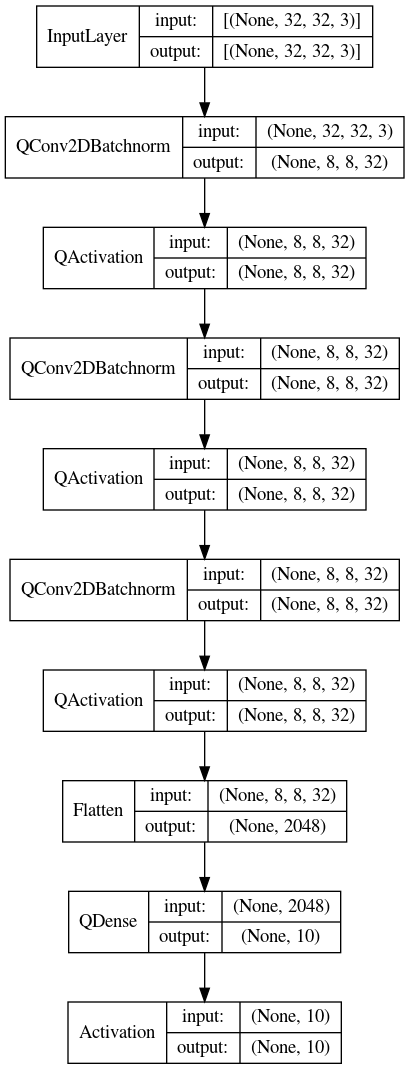
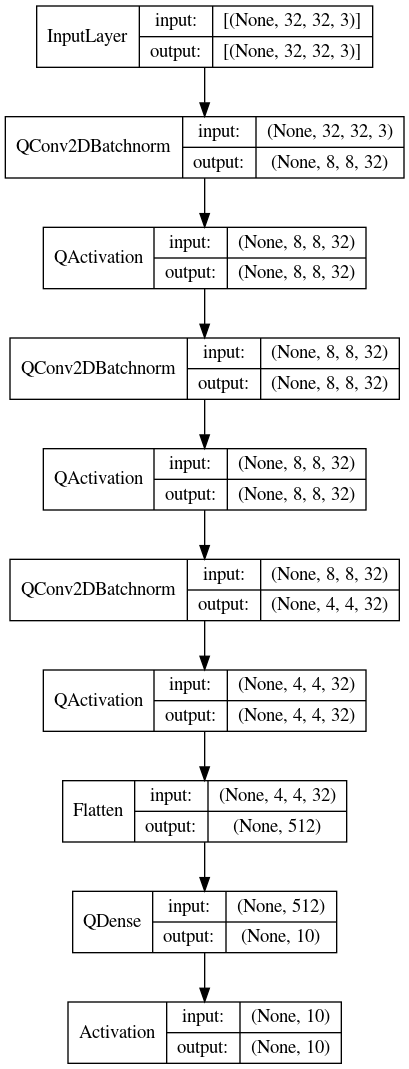
New models

diff --git a/eembc/CIFAR10_ResNetv1/train.py b/eembc/CIFAR10_ResNetv1/train.py
@@ -32,9 +32,9 @@ def main(args):
     input_shape = [32,32,3]
     num_classes = 10
     config = yaml_load(args.config)
-    num_filters = [32,32,0,0,0,0]#config['model']['filters']
-    kernel_sizes = [3,3,3,0,0,0,0,0,0]#config['model']['kernels']
-    strides = ['411','000','000']#config['model']['strides']
+    num_filters = config['model']['filters']
+    kernel_sizes = config['model']['kernels']
+    strides = config['model']['strides']
     l1p = float(config['model']['l1'])
     l2p = float(config['model']['l2'])
     skip = bool(config['model']['skip'])
